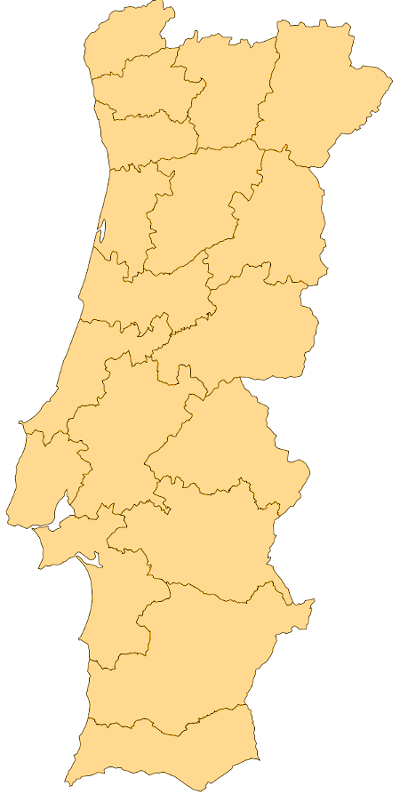
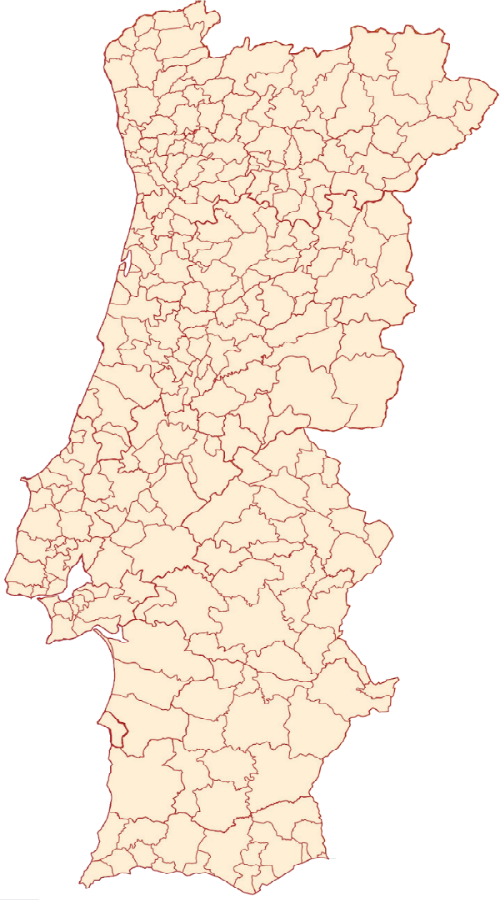
new image and new coords

diff --git a/src/graphics/MapPanel.java b/src/graphics/MapPanel.java
@@ -14,10 +14,10 @@ import java.io.IOException;
  * Created by diogo on 22/05/2016.
  */
 public class MapPanel extends JPanel{
-    private BufferedImage map,court;
-    private static final double LEFT_SIZE = -9.550542;
-    private static final double TOP_SIZE = 42.114205;
-    private static final double BOTTOM_SIZE = 36.923611;
+    private BufferedImage map;
+    private static final double LEFT_SIZE = -9.560542;
+    private static final double TOP_SIZE = 42.134205;
+    private static final double BOTTOM_SIZE = 36.903611;
     private static final double RIGHT_SIZE = -6.180207;
     private static double PIXEL_PER_COORD_HOR;
     private static double PIXEL_PER_COORD_VER;
@@ -29,7 +29,6 @@ public class MapPanel extends JPanel{
         ind.randGenes();
         try {
             map = ImageIO.read(new File(System.getProperty("user.dir") + "/resources/img/map.png"));
-            court=ImageIO.read(new File(System.getProperty("user.dir") + "/resources/img/court.png"));
             PIXEL_PER_COORD_HOR=map.getWidth()/(RIGHT_SIZE-LEFT_SIZE);
             PIXEL_PER_COORD_VER=map.getHeight()/(TOP_SIZE-BOTTOM_SIZE);
             System.out.println("hor: " + PIXEL_PER_COORD_HOR +" ver: "+PIXEL_PER_COORD_VER);
@@ -42,7 +41,6 @@ public class MapPanel extends JPanel{
         this.ind= ind;
         try {
             map = ImageIO.read(new File(System.getProperty("user.dir") + "/resources/img/map.png"));
-            court=ImageIO.read(new File(System.getProperty("user.dir") + "/resources/img/court.png"));
             PIXEL_PER_COORD_HOR=map.getWidth()/(RIGHT_SIZE-LEFT_SIZE);
             PIXEL_PER_COORD_VER=map.getHeight()/(TOP_SIZE-BOTTOM_SIZE);
             System.out.println("hor: " + PIXEL_PER_COORD_HOR +" ver: "+PIXEL_PER_COORD_VER);
@@ -54,16 +52,15 @@ public class MapPanel extends JPanel{
     protected void paintComponent(Graphics g) {
         super.paintComponent(g);
         g.drawImage(map,0,0,map.getWidth(),map.getHeight(),this);
-        g.drawImage(court,0,0,court.getWidth(),court.getHeight(),this);
         double posX,posY;
         for(int i = 0; i< Individual.SIZE; i++){
-            //if(ind.getGene(i)) {
+            if (ind.getGene(i)) {
                 posX = (Database.getInstance().getCounty(i).getLongitude() - LEFT_SIZE) * PIXEL_PER_COORD_HOR;
                 posY = (TOP_SIZE - Database.getInstance().getCounty(i).getLatitude()) * PIXEL_PER_COORD_VER;
                 //g.drawImage(court,(int)posX,(int)posY,court.getWidth(),court.getHeight(),this);
                 g.drawOval((int) posX, (int) posY, 5, 5);
                 System.out.println("Court-> hor: " + posX + " ver: " + posY);
-            //}
+            }
         }
 
     }

diff --git a/src/algorithm/Individual.java b/src/algorithm/Individual.java
@@ -6,6 +6,7 @@ package algorithm;
 
 import data.Database;
 
+import java.text.NumberFormat;
 import java.util.Arrays;
 import java.util.BitSet;
 import java.util.Random;
@@ -57,7 +58,7 @@ public class Individual {
             }
         }
         return "Individual{" +
-                "fitness=" + fitness +
+                "fitness=" + String.format("%15s", NumberFormat.getNumberInstance().format(fitness)) +
                 ", genes=" + s +
                 '}';
     }

diff --git a/src/graphics/Gui.java b/src/graphics/Gui.java
@@ -16,7 +16,7 @@ public class Gui extends JFrame {
         super();
         setDefaultCloseOperation(JFrame.EXIT_ON_CLOSE);
         setLayout(new BorderLayout());
-        setSize(500,900);
+        setSize(550, 1000);
         setVisible(true);
         getContentPane().add(map, BorderLayout.CENTER);
 
